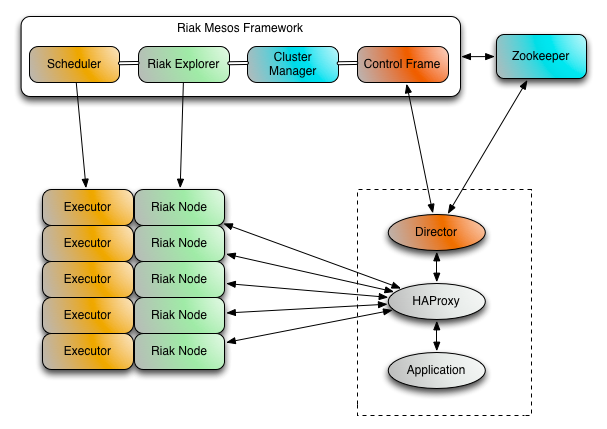
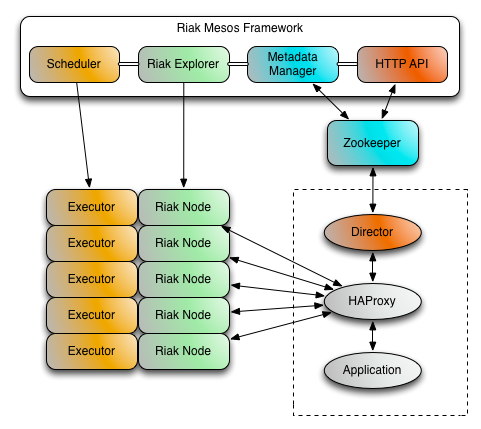
Renaming to HTTP API

diff --git a/docs/HTTP-API.md b/docs/HTTP-API.md
@@ -1,8 +1,8 @@
-# Riak Mesos Control Frame
+# Riak Mesos HTTP API
 
 ## Overview
 
-The Control Frame is a component within the Riak Mesos Framework. It's primary
+The HTTP API is a component within the Riak Mesos Framework. It's primary
 responsibility is to receive input from users and act on that input by
 interacting with other components in the Framework to control a Riak cluster
 created by the Framework.
@@ -19,17 +19,16 @@ be kept up to date on the cluster's current state. Instead of requiring this
 intelligence to be built into Riak client libraries, a small `Director`
 application can run alongside HAProxy as well as the client application.
 
-The Director will communicate with the Control Frame via Zookeeper and the
-Control Frame will keep the Director up to date with Riak cluster changes. The
-Director in turn will update a local HAProxy configuration with the currently
-known Riak node ip addresses.
+The Director will communicate with the HTTP API via Zookeeper to keep up to date
+with Riak cluster changes. The Director in turn will update a local HAProxy
+configuration with the currently known Riak node ip addresses.
 
 This way, the entire Riak cluster is accessible to client applications by
 communicating through the local HAProxy.
 
 ### API Requirements
 
-The Control Frame must provide an external API with the following functionality:
+The HTTP API must provide an external API with the following functionality:
 
 #### Cluster Management
 
